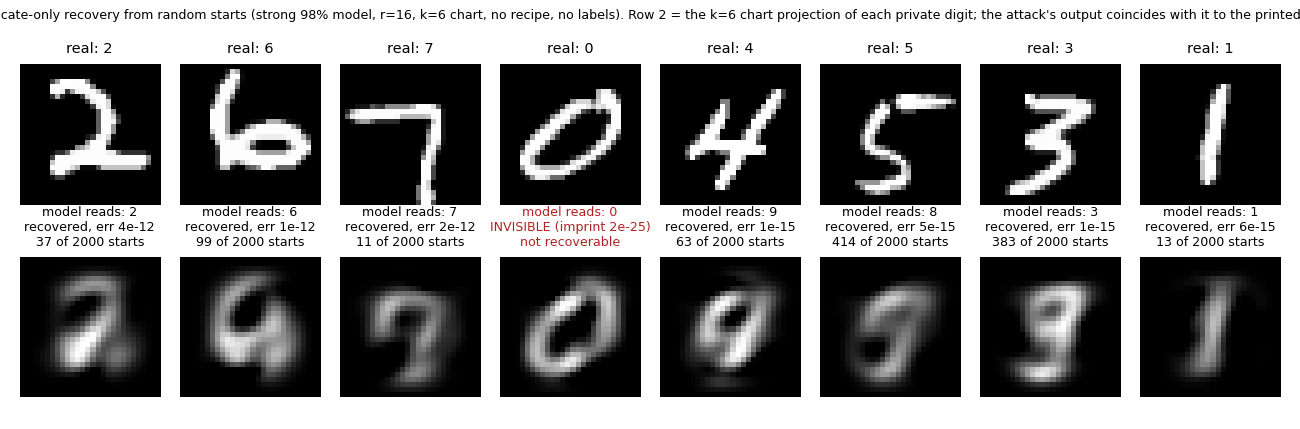
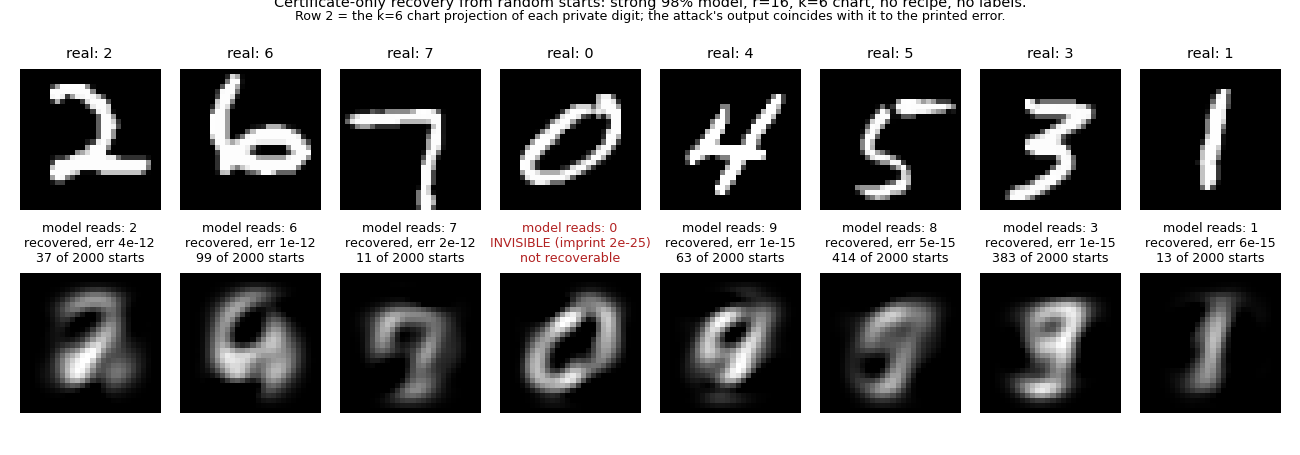
figure title fixed; RESULTS: projection classifiability (6/8 at k=6) as illustration, standalone fidelity curve as the number

diff --git a/experiments/exact_inversion/RESULTS.md b/experiments/exact_inversion/RESULTS.md
@@ -1757,6 +1757,13 @@ cell, not starts: job 717588 runs one cell with twenty recorded images (strong m
 recorded per Step 19 — on-chart, 2,000 starts, `k ∈ {8, 16, 24, 32}`), 190 pairs in one run, and doubles as
 "find some among twenty". Across ladder cells the per-cell taus are pooled, never the raw (image, landings) pairs.
 
+*Identity, not just pixels (job 719106):* the base model reads 6 of the 8 `k = 6` projections as their true digit
+(the 4 → 9, the 5 → 8; 5 of the 7 recorded). That is the illustration, not the number: the classifiability of a
+`k`-dimensional chart is a property of the chart family and `k` alone, so it is measured standalone over 2,000
+held-out digits per `k` (`chart_fidelity.py`, job 719793) and the ladder's admissible `k` at each `r` are marks
+on that curve. Figure re-rendered as two rows — real digit / chart projection with the per-image recovery error,
+landings, and the model's reading printed under each — since the attack's output coincides with the projection.
+
 This is the first recovery in the study that begins from nothing, and it is exact. Its scope: (i) *on-chart* —
 the fine-tuning images lie on the `k = 6` chart, so what is recovered is those chart images, which at six PCA
 components are blurs (the figure shows it); off-chart the certificate has no zero. (ii) The certificate budget is
